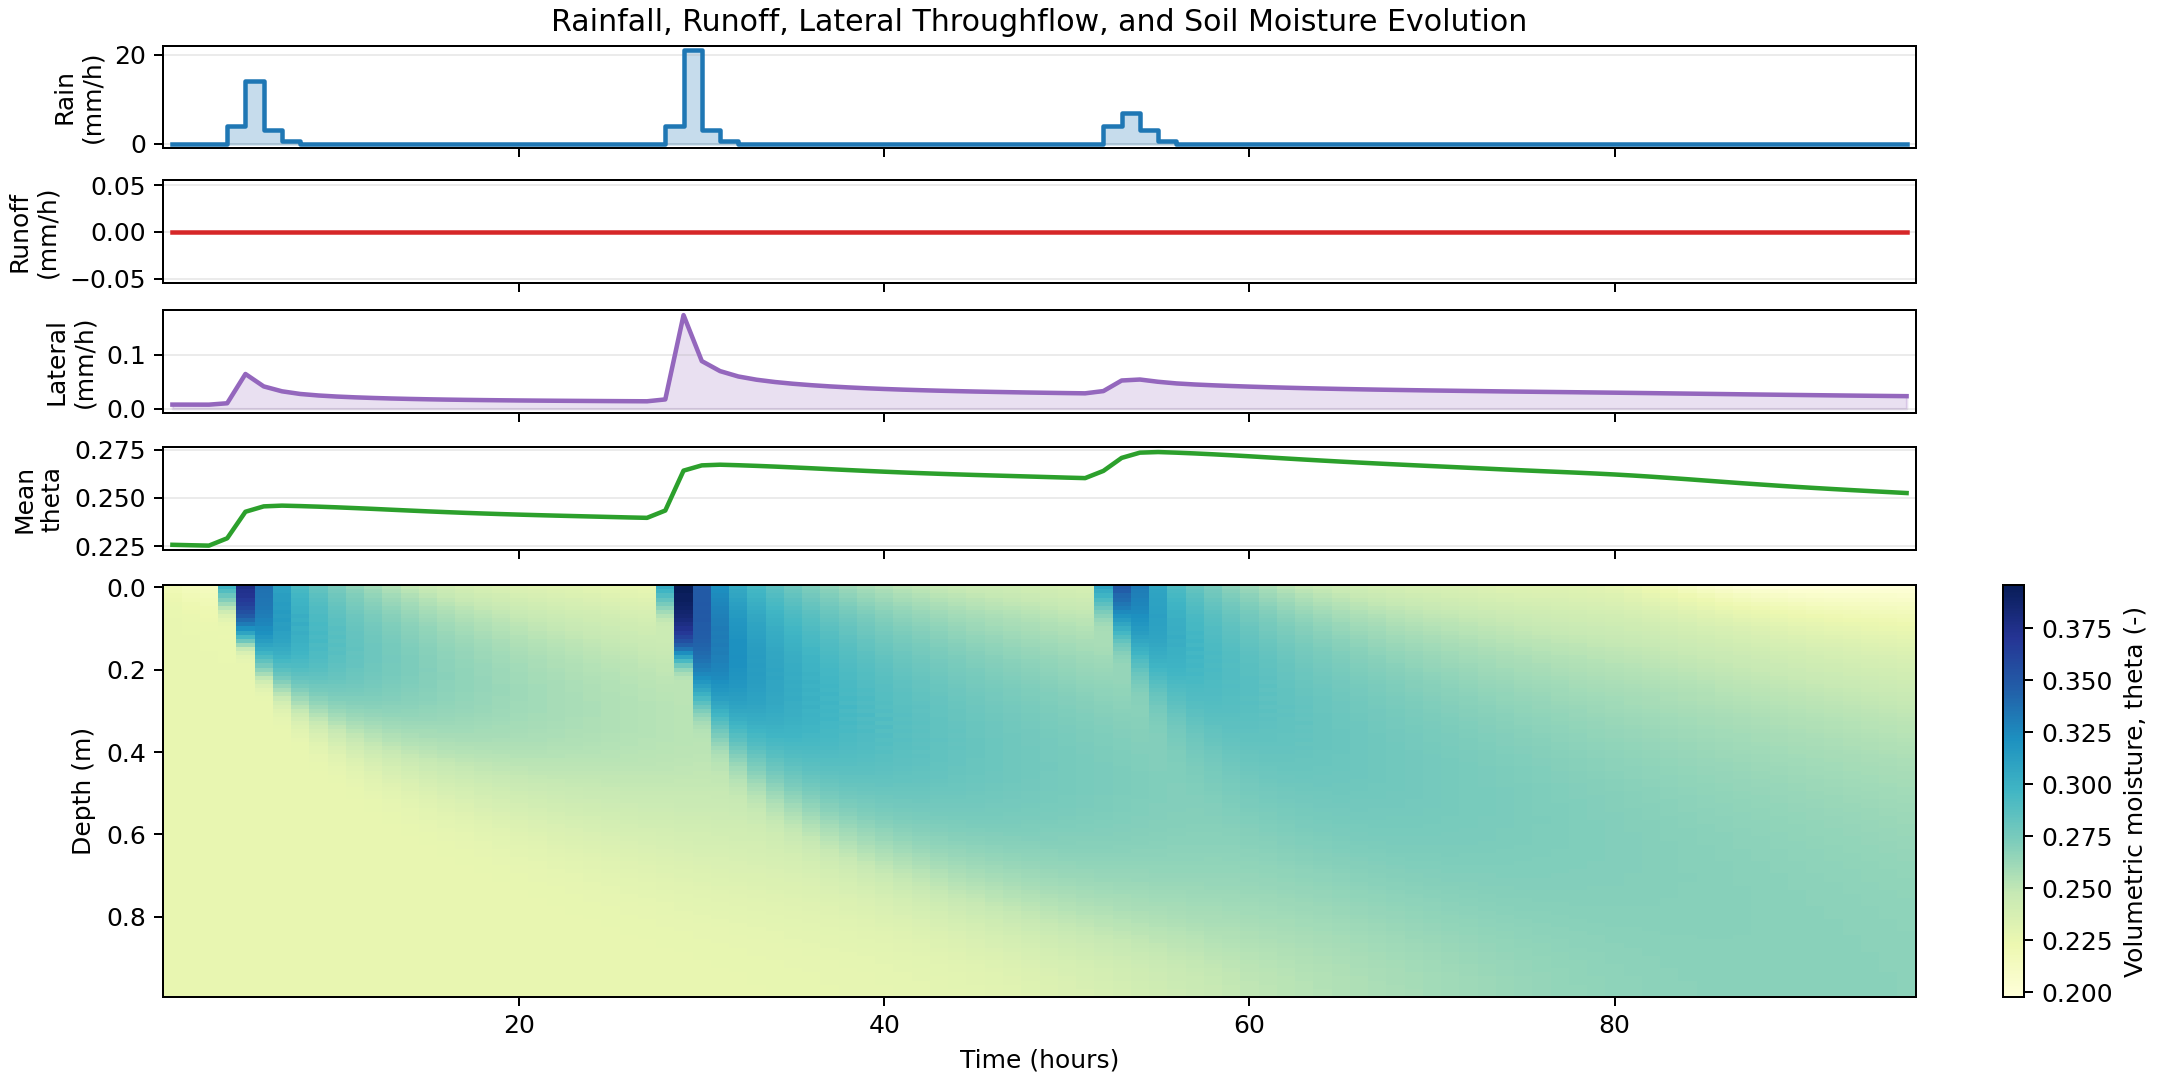
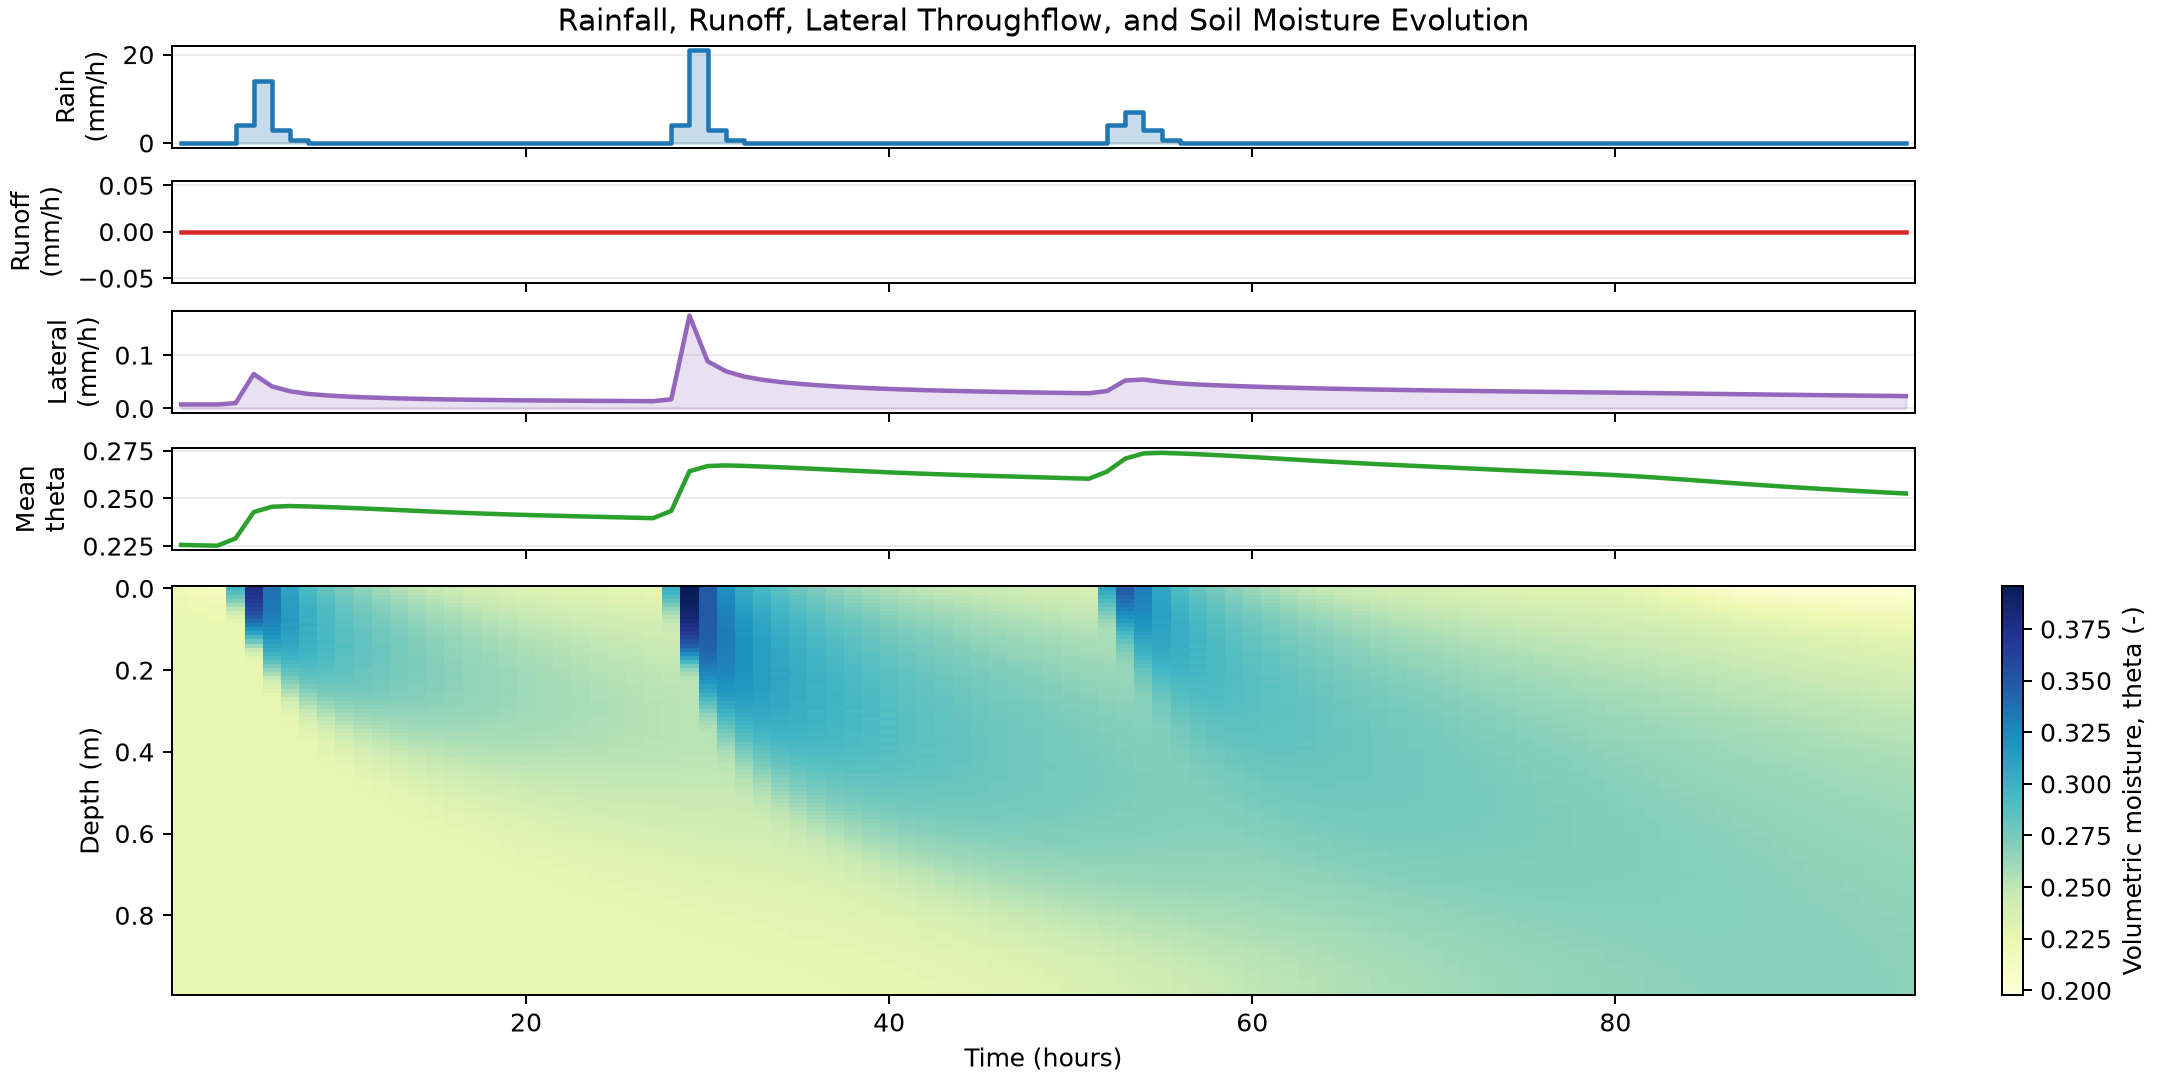
Remove the dependancy on landlab

diff --git a/simulate_soil_column.py b/simulate_soil_column.py
@@ -1,5 +1,5 @@
 #!/usr/bin/env python3
-"""Richards-equation soil column simulation using LandLab for grid structure."""
+"""Richards-equation soil column simulation for a 1D vertical soil column."""
 
 from __future__ import annotations
 
@@ -12,7 +12,6 @@ from typing import Optional
 import matplotlib.pyplot as plt
 import numpy as np
 import pandas as pd
-from landlab import RasterModelGrid
 
 
 @dataclass
@@ -125,19 +124,10 @@ def read_forcing(forcing_csv: Path, default_dt_hours: float) -> pd.DataFrame:
     return forcing
 
 
-def build_grid(nz: int, dz_m: float) -> tuple[RasterModelGrid, np.ndarray, np.ndarray]:
-    nrows = max(nz, 2)
-    grid = RasterModelGrid((nrows, 2), xy_spacing=(dz_m, 1.0))
+def build_column_geometry(nz: int, dz_m: float) -> tuple[np.ndarray, np.ndarray]:
     column_nodes = np.arange(nz) * 2
     depth_m = np.arange(nz, dtype=float) * dz_m
-
-    grid.add_zeros("soil_water__pressure_head", at="node")
-    grid.add_zeros("soil_water__volumetric_moisture", at="node")
-    grid.add_zeros("soil_water__hydraulic_conductivity", at="node")
-    full_depth = np.full(grid.number_of_nodes, np.nan)
-    full_depth[column_nodes] = depth_m
-    grid.add_field("depth_m", full_depth, at="node", copy=False)
-    return grid, column_nodes, depth_m
+    return column_nodes, depth_m
 
 
 def one_substep(
@@ -282,7 +272,7 @@ def run_simulation(
 ) -> None:
     output_dir.mkdir(parents=True, exist_ok=True)
 
-    grid, column_nodes, depth_m = build_grid(column.nz, column.dz_m)
+    column_nodes, depth_m = build_column_geometry(column.nz, column.dz_m)
 
     initial_head = np.full(column.nz, sim.initial_head_m, dtype=float)
     initial_theta = theta_from_head(initial_head, soil)
@@ -350,14 +340,7 @@ def run_simulation(
         if step_diag is None:
             continue
 
-        grid.at_node["soil_water__pressure_head"][:] = np.nan
-        grid.at_node["soil_water__volumetric_moisture"][:] = np.nan
-        grid.at_node["soil_water__hydraulic_conductivity"][:] = np.nan
-        grid.at_node["soil_water__pressure_head"][column_nodes] = state.head_m
-        grid.at_node["soil_water__volumetric_moisture"][column_nodes] = state.theta
-        grid.at_node["soil_water__hydraulic_conductivity"][column_nodes] = hydraulic_conductivity(
-            state.head_m, soil
-        )
+        conductivity = hydraulic_conductivity(state.head_m, soil)
 
         timestamp = row["timestamp"] if "timestamp" in forcing.columns else pd.NaT
 
@@ -370,7 +353,7 @@ def run_simulation(
                     "depth_m": depth_m[node],
                     "theta": state.theta[node],
                     "head_m": state.head_m[node],
-                    "conductivity_m_per_s": grid.at_node["soil_water__hydraulic_conductivity"][column_nodes[node]],
+                    "conductivity_m_per_s": conductivity[node],
                 }
             )
 

diff --git a/README.md b/README.md
@@ -1,9 +1,9 @@
-# ThetaFlow: A LandLab-based Richards equation simulator for vadose-zone dynamics.
+# ThetaFlow: A Richards equation simulator for vadose-zone dynamics.
 
 
 ThetaFlow simulates 1D vertical water movement in a soil column using:
 
-- A LandLab `RasterModelGrid` to hold column state and fields
+- Plain NumPy arrays to hold column state and fields
 - The mixed-form Richards equation (Darcy flux + mass conservation)
 - Van Genuchten-Mualem hydraulic functions
 - A hillslope-angle lateral throughflow term for soil blocks on slopes
